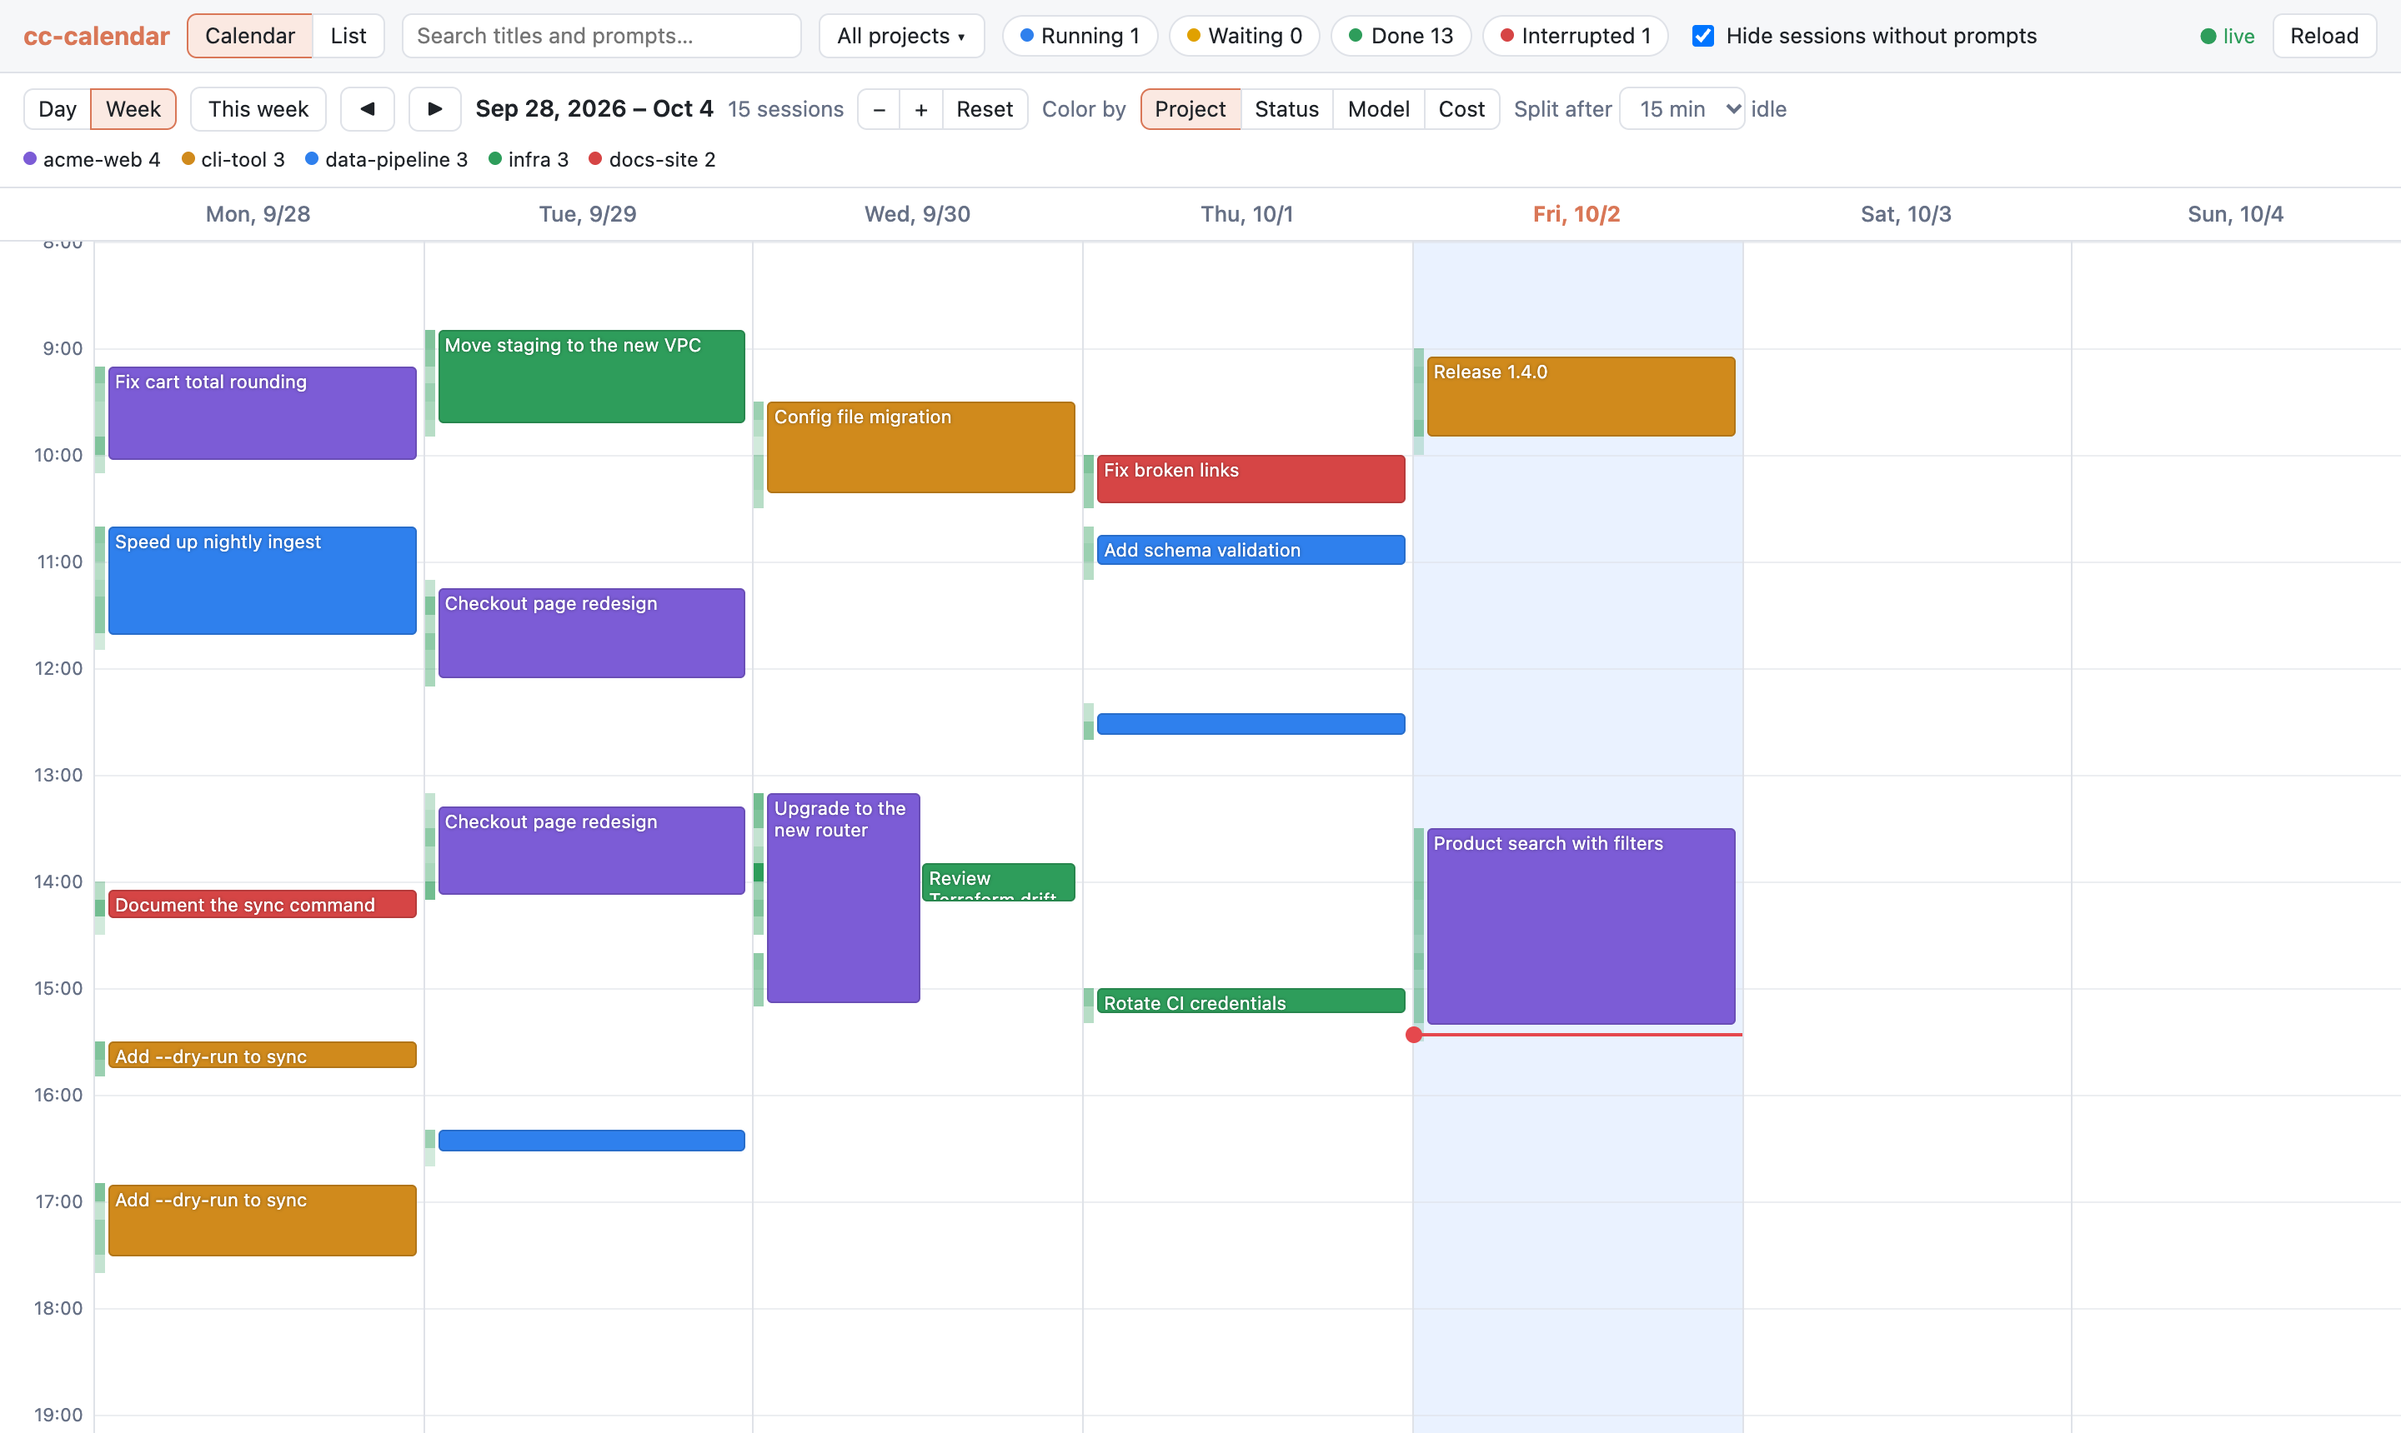
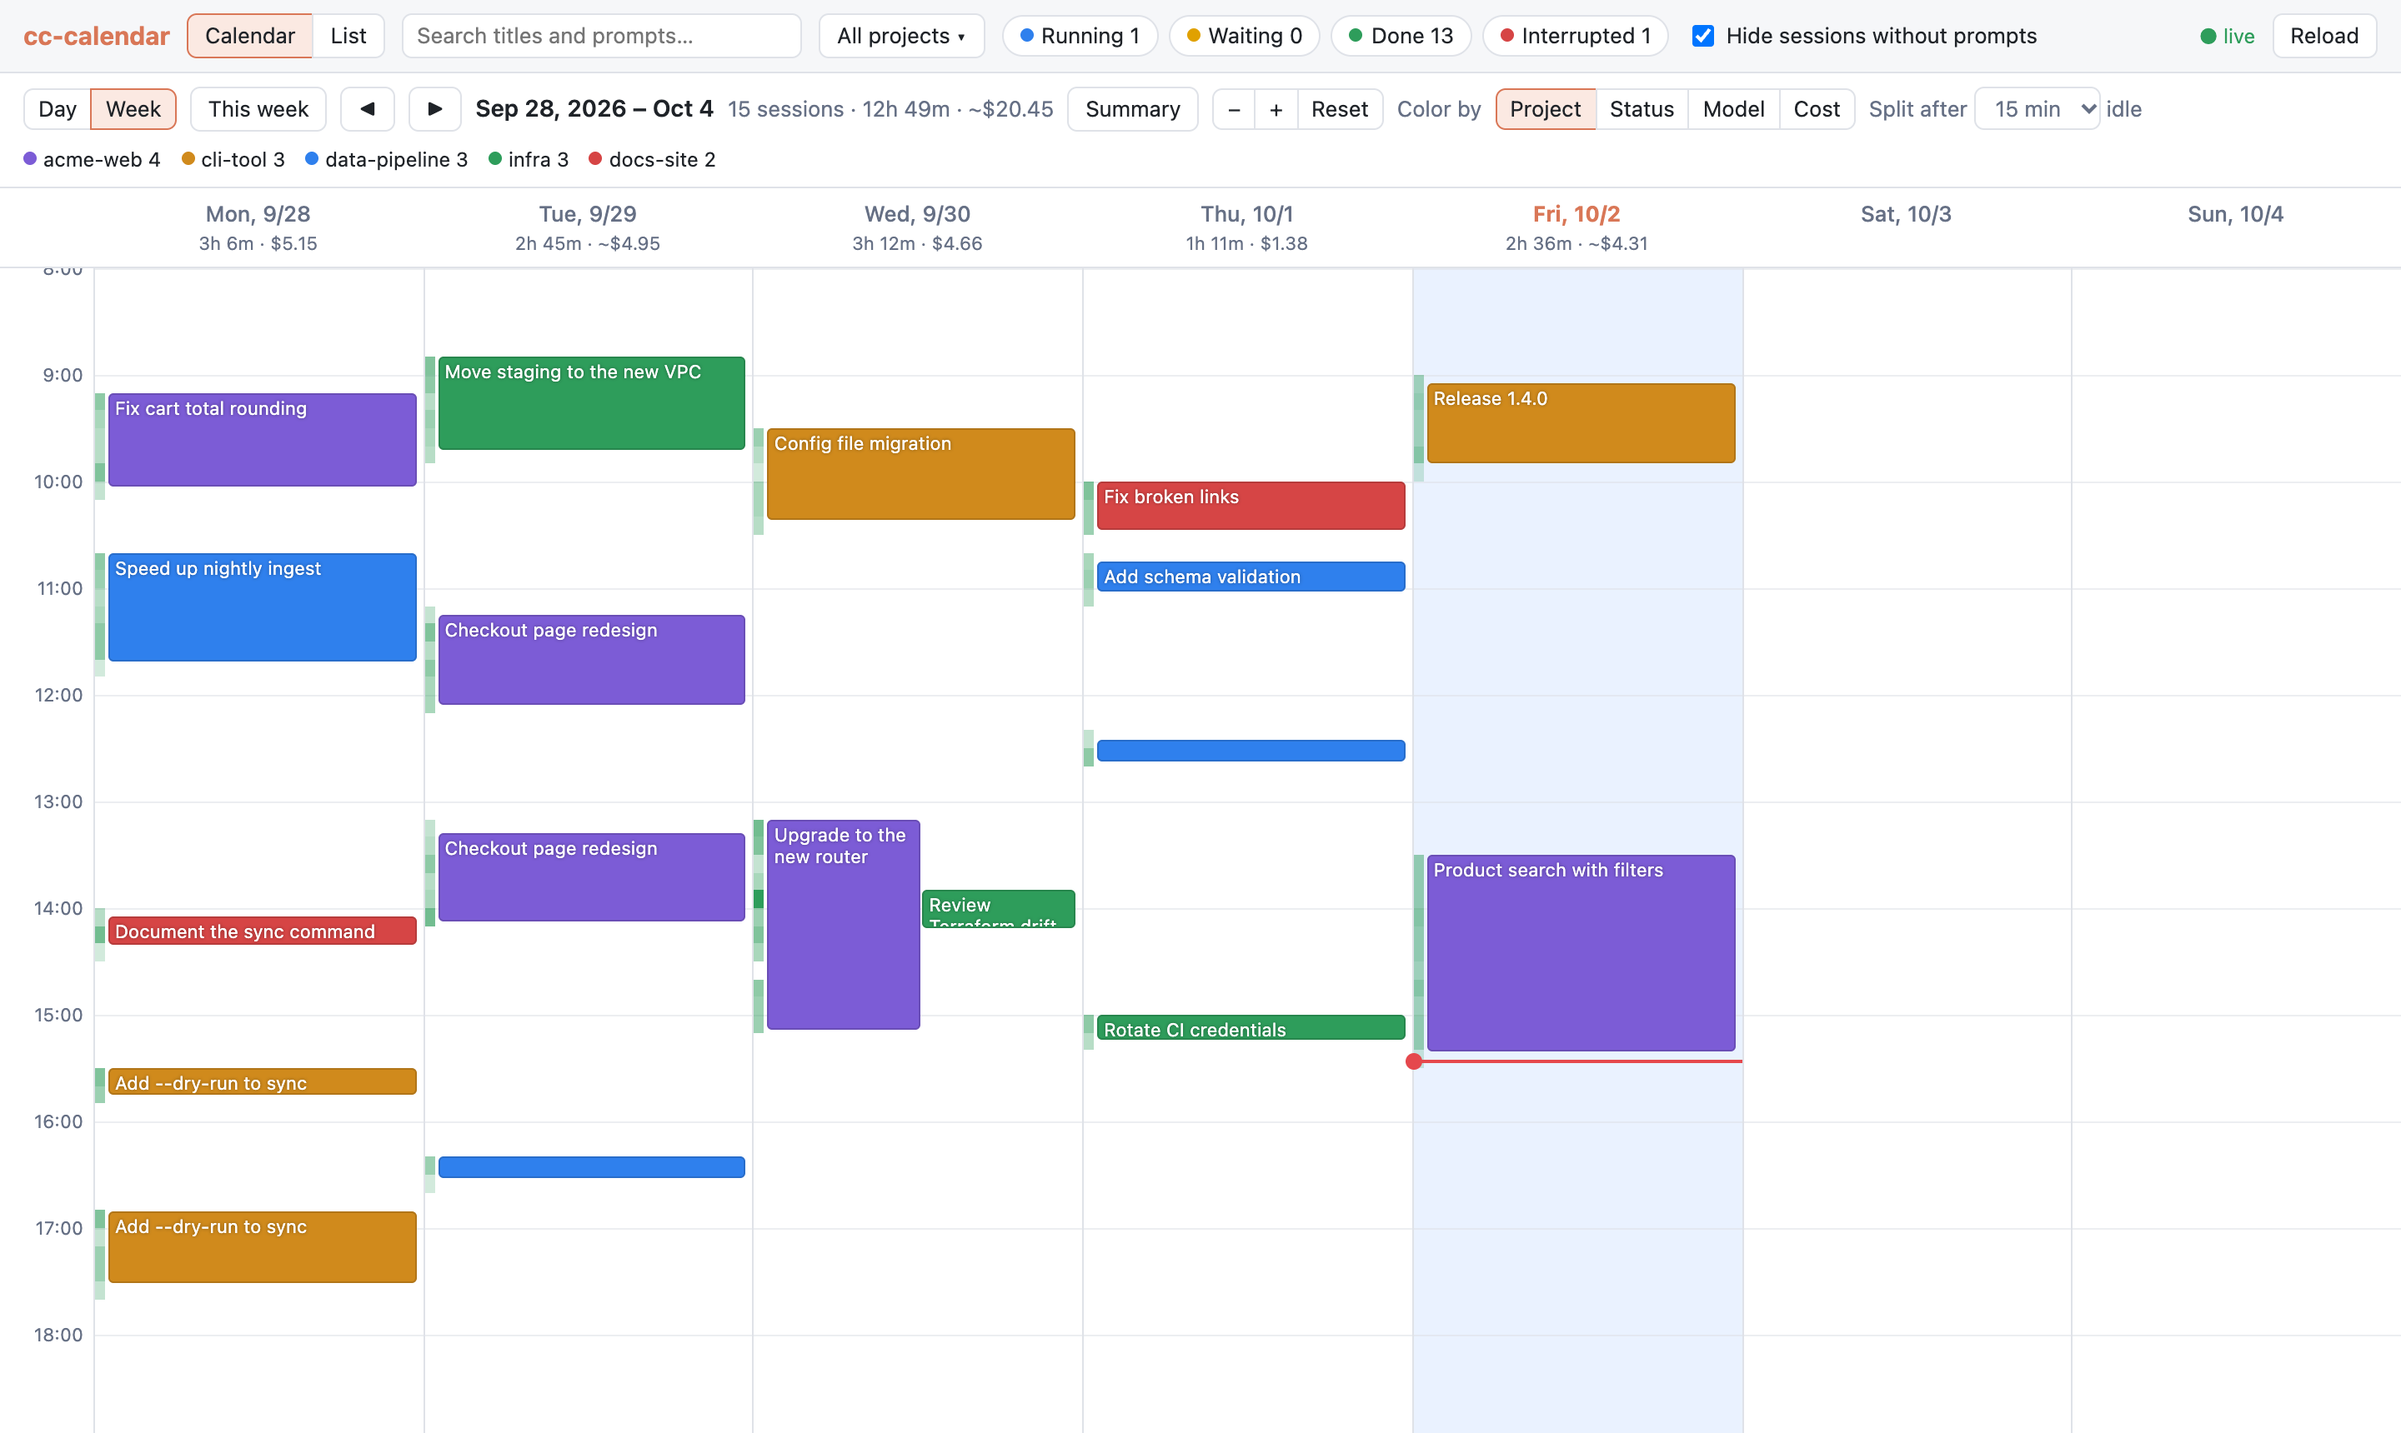
Add weekly summary of active time and cost
Show per-day totals in the calendar header and a Summary pane with
active time and cost per project for the displayed range. Session cost
is split across days by when its API requests ran (cost_density).

Closes #8

diff --git a/src/cc_calendar/static/summary.js b/src/cc_calendar/static/summary.js
@@ -1,0 +1,102 @@
+// Active time and cost per day and per project for the displayed range.
+import { state } from "./app.js";
+import { fmtCost, fmtDuration, h } from "./util.js";
+
+const BUCKET_MS = 600_000;
+
+// Active time: the drawn segments clipped to [from, to), so it follows the "Split after" setting.
+function activeMs(s, from, to) {
+  let ms = 0;
+  for (const [a, b] of s.segments) ms += Math.max(0, Math.min(b, to) - Math.max(a, from));
+  return ms;
+}
+
+// Cost: the session's cost split by when its API requests happened.
+function costIn(s, from, to) {
+  if (!s.cost) return 0;
+  let total = 0;
+  let inside = 0;
+  for (const [bucket, c] of Object.entries(s.cost_density || {})) {
+    const t = Number(bucket) * BUCKET_MS;
+    total += c;
+    if (t >= from && t < to) inside += c;
+  }
+  if (total > 0) return (s.cost * inside) / total;
+  // No priced requests (e.g. unknown model): fall back to the share of active time.
+  const all = activeMs(s, -Infinity, Infinity);
+  return all > 0 ? (s.cost * activeMs(s, from, to)) / all : 0;
+}
+
+// Totals per day and per project. `bounds` holds each day's [start, end) in ms.
+export function summarize(sessions, bounds) {
+  const days = bounds.map(() => ({ ms: 0, cost: 0, estimated: false }));
+  const projects = new Map();
+  for (const s of sessions) {
+    let row = projects.get(s.project);
+    if (!row) {
+      row = { project: s.project, name: s.project_name, days: bounds.map(() => 0), ms: 0, cost: 0, estimated: false, sessions: 0 };
+      projects.set(s.project, row);
+    }
+    let touched = false;
+    bounds.forEach(([from, to], i) => {
+      const ms = activeMs(s, from, to);
+      const cost = costIn(s, from, to);
+      if (!ms && !cost) return;
+      touched = true;
+      days[i].ms += ms;
+      days[i].cost += cost;
+      days[i].estimated ||= s.cost_estimated;
+      row.days[i] += ms;
+      row.ms += ms;
+      row.cost += cost;
+      row.estimated ||= s.cost_estimated;
+    });
+    if (touched) row.sessions++;
+  }
+  const rows = [...projects.values()].filter((r) => r.sessions).sort((a, b) => b.ms - a.ms || b.cost - a.cost);
+  const total = {
+    ms: days.reduce((n, d) => n + d.ms, 0),
+    cost: days.reduce((n, d) => n + d.cost, 0),
+    estimated: days.some((d) => d.estimated),
+  };
+  return { days, rows, total };
+}
+
+export function dayTotalLabel(d) {
+  return d.ms || d.cost ? `${fmtDuration(d.ms)} · ${fmtCost(d.cost, d.estimated)}` : "";
+}
+
+export function renderSummary(container, summary, dayLabels) {
+  const { days, rows, total } = summary;
+  if (!rows.length) {
+    container.replaceChildren(h("div", { class: "muted" }, "No activity in this range."));
+    return;
+  }
+  const perDay = dayLabels.length > 1;
+  const dayCells = (values, cls = "") => (perDay ? values.map((ms) => h("td", { class: "num " + cls }, ms ? fmtDuration(ms) : "")) : []);
+  container.replaceChildren(
+    h("table", {},
+      h("thead", {}, h("tr", {},
+        h("th", {}, "Project"),
+        ...(perDay ? dayLabels.map((l) => h("th", { class: "num" }, l)) : []),
+        h("th", { class: "num" }, "Active time"),
+        h("th", { class: "num" }, "Cost"),
+        h("th", { class: "num" }, "Sessions"))),
+      h("tbody", {}, rows.map((r) =>
+        h("tr", {},
+          h("td", { title: r.project },
+            h("span", { class: "dot", style: { background: state.projectColors.get(r.project) } }), r.name),
+          ...dayCells(r.days),
+          h("td", { class: "num strong" }, fmtDuration(r.ms)),
+          h("td", { class: "num" }, fmtCost(r.cost, r.estimated)),
+          h("td", { class: "num" }, r.sessions)))),
+      h("tfoot", {}, h("tr", {},
+        h("td", {}, "Total"),
+        ...dayCells(days.map((d) => d.ms)),
+        h("td", { class: "num strong" }, fmtDuration(total.ms)),
+        h("td", { class: "num" }, fmtCost(total.cost, total.estimated)),
+        h("td", { class: "num" }, rows.reduce((n, r) => n + r.sessions, 0))))),
+    h("div", { class: "muted note" },
+      "Active time is the drawn bars (split after the idle threshold). A session's cost is divided by when its requests ran."),
+  );
+}

diff --git a/src/cc_calendar/static/calendar.js b/src/cc_calendar/static/calendar.js
@@ -1,5 +1,6 @@
 // Week or day calendar: activity segments as bars, laid out in lanes like Google Calendar.
 import { colorFor, legendItems, openDay, rangeDays, state } from "./app.js";
+import { dayTotalLabel, renderSummary, summarize } from "./summary.js";
 import { STATUS_LABELS, addDays, fmtCost, fmtDuration, fmtTime, h } from "./util.js";
 
 const HOUR_MS = 3600_000;
@@ -7,7 +8,7 @@ const BUCKET_MS = 600_000;
 const MIN_BAR_PX = 4;
 let scrolledOnce = false;
 
-export function renderCalendar(container, visible, { onSelect, legend, rangeLabel, rangeCount }) {
+export function renderCalendar(container, visible, { onSelect, legend, rangeLabel, rangeCount, summaryPane }) {
   const prevScroll = container.scrollTop;
   hideTip();
   const days = rangeDays();
@@ -25,7 +26,15 @@ export function renderCalendar(container, visible, { onSelect, legend, rangeLabe
   rangeLabel.textContent = days.length === 1
     ? first
     : `${first} – ${days[days.length - 1].toLocaleDateString([], { month: "short", day: "numeric" })}`;
-  rangeCount.textContent = `${inWeek.length} sessions`;
+  const bounds = days.map((d) => [d.getTime(), addDays(d, 1).getTime()]);
+  const summary = summarize(inWeek, bounds);
+  rangeCount.textContent = `${inWeek.length} sessions` + (summary.total.ms || summary.total.cost
+    ? ` · ${fmtDuration(summary.total.ms)} · ${fmtCost(summary.total.cost, summary.total.estimated)}`
+    : "");
+  summaryPane.hidden = !state.showSummary;
+  if (state.showSummary) {
+    renderSummary(summaryPane, summary, days.map((d) => `${d.toLocaleDateString([], { weekday: "short" })} ${d.getDate()}`));
+  }
   legend.replaceChildren(...legendItems(inWeek).map((e) =>
     h("span", { title: e.title || "" }, h("span", { class: "dot", style: { background: e.color } }), `${e.label} ${e.n}`)));
 
@@ -47,11 +56,11 @@ export function renderCalendar(container, visible, { onSelect, legend, rangeLabe
   const isWeek = days.length > 1;
   const head = h("div", { class: "cal-head", style: { gridTemplateColumns: cols } },
     h("div", {}),
-    ...days.map((d) => h("div", {
+    ...days.map((d, i) => h("div", {
       class: [d.toDateString() === todayKey ? "today" : "", isWeek ? "link" : ""].join(" ").trim(),
       title: isWeek ? "Show this day" : "",
       onclick: isWeek ? () => openDay(d) : null,
-    }, fmtDay(d))));
+    }, fmtDay(d), h("span", { class: "day-total" }, dayTotalLabel(summary.days[i])))));
 
   const body = h("div", { class: "cal-body", style: { gridTemplateColumns: cols, height: `${24 * hourPx}px` } });
   const gutter = h("div", { class: "gutter" });

diff --git a/src/cc_calendar/static/app.js b/src/cc_calendar/static/app.js
@@ -24,6 +24,7 @@ export const state = {
   statuses: new Set(prefs.get("statuses", Object.keys(STATUS_LABELS))),
   hideNoPrompt: prefs.get("hideNoPrompt", true),
   sort: prefs.get("listSort", { key: "start", dir: "desc" }),
+  showSummary: prefs.get("summary", false),
   selectedId: null,
   projectColors: new Map(),
   modelColors: new Map(),
@@ -155,6 +156,7 @@ function renderMain() {
       legend: $("legend"),
       rangeLabel: $("range-label"),
       rangeCount: $("range-count"),
+      summaryPane: $("summary"),
     });
   } else {
     renderList(visible);
@@ -169,6 +171,7 @@ function renderToolbar() {
   document.querySelectorAll("#span-toggle button").forEach((b) =>
     b.classList.toggle("active", b.dataset.span === state.span));
   $("go-today").textContent = state.span === "day" ? "Today" : "This week";
+  $("summary-toggle").classList.toggle("active", state.showSummary);
   $("gap").value = String(state.gap);
   $("hide-noprompt").checked = state.hideNoPrompt;
 
@@ -342,6 +345,11 @@ function bind() {
   $("go-today").onclick = () => { state.anchor = startOfDay(new Date()); renderMain(); };
   $("go-prev").onclick = () => { state.anchor = addDays(state.anchor, -step()); renderMain(); };
   $("go-next").onclick = () => { state.anchor = addDays(state.anchor, step()); renderMain(); };
+  $("summary-toggle").onclick = () => {
+    state.showSummary = !state.showSummary;
+    prefs.set("summary", state.showSummary);
+    renderAll();
+  };
   $("zoom-in").onclick = () => setHourPx(state.hourPx * 1.25);
   $("zoom-out").onclick = () => setHourPx(state.hourPx / 1.25);
   $("zoom-reset").onclick = () => setHourPx(DEFAULT_HOUR_PX);

diff --git a/src/cc_calendar/static/style.css b/src/cc_calendar/static/style.css
@@ -120,6 +120,17 @@ a { color: var(--accent); }
 .cal-head div.today { color: var(--accent); font-weight: 700; }
 .cal-head div.link { cursor: pointer; }
 .cal-head div.link:hover { color: var(--text); text-decoration: underline; }
+.cal-head .day-total { display: block; font-size: 11px; font-weight: 400; color: var(--muted); min-height: 1.3em; }
+
+.summary { padding: 0 14px 10px; max-height: 40vh; overflow: auto; font-size: 12px; }
+.summary table { border-collapse: collapse; min-width: 50%; }
+.summary th, .summary td { padding: 4px 10px; border-bottom: 1px solid var(--border); text-align: left; white-space: nowrap; }
+.summary th { color: var(--muted); font-weight: 600; background: var(--bg-soft); }
+.summary .num { text-align: right; font-variant-numeric: tabular-nums; }
+.summary .strong { font-weight: 600; }
+.summary tfoot td { font-weight: 600; border-bottom: none; border-top: 1px solid var(--border-strong); }
+.summary .dot { margin-right: 6px; }
+.summary .note { margin-top: 6px; }
 .cal-body { display: grid; position: relative; }
 .gutter { position: relative; }
 .gutter span {

diff --git a/src/cc_calendar/static/index.html b/src/cc_calendar/static/index.html
@@ -42,6 +42,7 @@
           <button id="go-next" aria-label="Next">▶</button>
           <span class="range" id="range-label"></span>
           <span class="muted" id="range-count"></span>
+          <button id="summary-toggle" title="Active time and cost per project">Summary</button>
           <div class="seg small">
             <button id="zoom-out" aria-label="Zoom out">−</button>
             <button id="zoom-in" aria-label="Zoom in">+</button>
@@ -65,6 +66,7 @@
             idle</label>
         </div>
         <div class="legend" id="legend"></div>
+        <div class="summary" id="summary" hidden></div>
         <div class="calendar" id="calendar"></div>
       </div>
       <div id="list-view" hidden>

diff --git a/src/cc_calendar/parser.py b/src/cc_calendar/parser.py
@@ -459,6 +459,20 @@ class SessionAcc:
             out[t // DENSITY_BUCKET_MS] += 1
         return dict(out)
 
+    def cost_density(self) -> dict[int, float]:
+        """Estimated cost per DENSITY_BUCKET_MS bucket, subagents included.
+
+        Lets the UI split a session's cost across days; only the proportions are used.
+        """
+        out: Counter = Counter()
+        usages = [*self.usages.values()]
+        for sa in self.subagents.values():
+            usages.extend(sa.usages.values())
+        for u in usages:
+            if u.ts is not None:
+                out[u.ts // DENSITY_BUCKET_MS] += estimate_cost(u.model, u.usage)
+        return {b: round(c, 6) for b, c in out.items() if c}
+
     def tokens(self) -> int:
         return sum(u.total for u in self.usages.values()) + sum(
             s.tokens() for s in self.subagents.values()

diff --git a/tests/test_parser.py b/tests/test_parser.py
@@ -1,3 +1,4 @@
+import pytest
 from conftest import BASE, LogBuilder, basic_session
 
 from cc_calendar.parser import (
@@ -189,6 +190,13 @@ def test_segments_and_density():
     assert len(s.segments(1 * MIN)) == 5
     bucket = T0 // DENSITY_BUCKET_MS
     assert s.density() == {bucket: 2, bucket + 1: 1, bucket + 6: 2}
+
+
+def test_cost_density_sums_to_estimate():
+    s = feed(basic_session())
+    density = s.cost_density()
+    assert density and all(b == int(b) for b in density)
+    assert sum(density.values()) == pytest.approx(s.cost()[0], abs=1e-5)
 
 
 def test_title_fallbacks():

diff --git a/src/cc_calendar/server.py b/src/cc_calendar/server.py
@@ -60,6 +60,7 @@ def summary(s: SessionAcc, live: dict | None, gap_ms: int, continued_from: str |
         "end": s.end,
         "segments": s.segments(gap_ms),
         "density": s.density(),
+        "cost_density": s.cost_density(),
         "prompt_count": len(s.prompts),
         "tokens": s.tokens(),
         "cost": round(cost, 4),

diff --git a/README.md b/README.md
@@ -37,6 +37,9 @@ The server binds to `127.0.0.1` on a free port and opens your browser.
   split wherever it sat idle longer than the chosen threshold (15 minutes by default). Overlapping
   sessions sit side by side. Click a date in the week view to open that day on its own. Zoom with
   the − / + buttons or Ctrl + mouse wheel.
+- **Time and cost totals** — each date shows that day's active time and cost, and the Summary
+  table breaks the week (or day) down by project. Active time is the drawn bars; a session's cost
+  is split across days by when its requests ran. Totals follow the current filters.
 - **Activity density** — a heat strip behind each day shows prompts and responses per 10 minutes.
 - **Colors** by project, status, model or cost (< $1 / $1–5 / $5–20 / $20–50 / ≥ $50).
 - **Status** — Running and Waiting for live sessions, Done or Interrupted for finished ones, with
